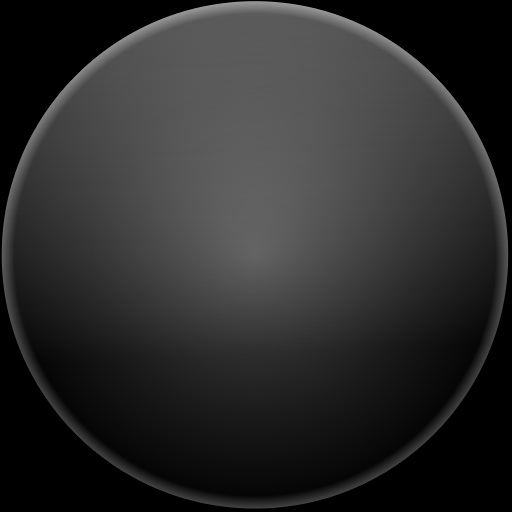
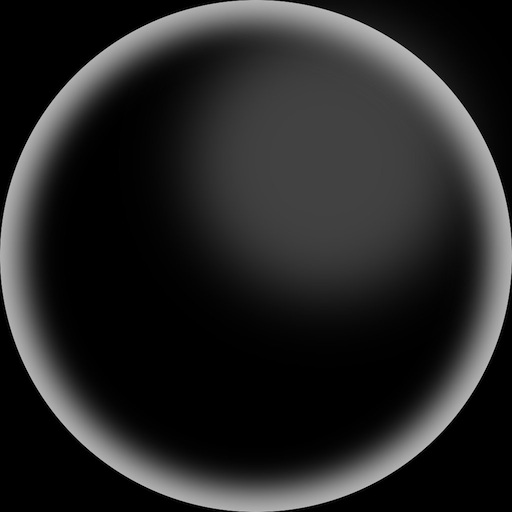
New matcap collection for default in release. It's now 24 images, ordered from regular diffuse to more shiny, stone, wax, eflective, glass and two non-realistic ones.
The menu now shows it in 3 rows. I made the previews a bit smaller, 96 pixels,
like the brushes for painting.

Thanks everyone for submitting pics! I updated the credit file too, but name
from one person is missing still, will be added next.

diff --git a/source/blender/editors/interface/interface_icons.c b/source/blender/editors/interface/interface_icons.c
@@ -533,7 +533,7 @@ static void icon_verify_datatoc(IconImage *iimg)
 		                                    iimg->datatoc_size, IB_rect, NULL, "<matcap icon>");
 		/* w and h were set on initialize */
 		if (bbuf->x != iimg->h && bbuf->y != iimg->w)
-			IMB_scalefastImBuf(bbuf, iimg->w, iimg->h);
+			IMB_scaleImBuf(bbuf, iimg->w, iimg->h);
 		
 		iimg->rect = bbuf->rect;
 		bbuf->rect = NULL;
@@ -550,7 +550,7 @@ static void init_matcap_icons(void)
 		int size = datatoc_ ##name## _jpg_size;                               \
 		DrawInfo *di;                                                         \
 		                                                                      \
-		di = def_internal_icon(NULL, icon_id, 0, 0, 128, ICON_TYPE_BUFFER);   \
+		di = def_internal_icon(NULL, icon_id, 0, 0, 96, ICON_TYPE_BUFFER);   \
 		di->data.buffer.image->datatoc_rect = rect;                           \
 		di->data.buffer.image->datatoc_size = size;                           \
 	} (void)0
@@ -571,6 +571,14 @@ static void init_matcap_icons(void)
 	INIT_MATCAP_ICON(ICON_MATCAP_14, mc14);
 	INIT_MATCAP_ICON(ICON_MATCAP_15, mc15);
 	INIT_MATCAP_ICON(ICON_MATCAP_16, mc16);
+	INIT_MATCAP_ICON(ICON_MATCAP_17, mc17);
+	INIT_MATCAP_ICON(ICON_MATCAP_18, mc18);
+	INIT_MATCAP_ICON(ICON_MATCAP_19, mc19);
+	INIT_MATCAP_ICON(ICON_MATCAP_20, mc20);
+	INIT_MATCAP_ICON(ICON_MATCAP_21, mc21);
+	INIT_MATCAP_ICON(ICON_MATCAP_22, mc22);
+	INIT_MATCAP_ICON(ICON_MATCAP_23, mc23);
+	INIT_MATCAP_ICON(ICON_MATCAP_24, mc24);
 
 #undef INIT_MATCAP_ICON
 

diff --git a/source/blender/editors/include/ED_datafiles.h b/source/blender/editors/include/ED_datafiles.h
@@ -206,6 +206,30 @@ extern char datatoc_mc15_jpg[];
 extern int datatoc_mc16_jpg_size;
 extern char datatoc_mc16_jpg[];
 
+extern int datatoc_mc17_jpg_size;
+extern char datatoc_mc17_jpg[];
+
+extern int datatoc_mc18_jpg_size;
+extern char datatoc_mc18_jpg[];
+
+extern int datatoc_mc19_jpg_size;
+extern char datatoc_mc19_jpg[];
+
+extern int datatoc_mc20_jpg_size;
+extern char datatoc_mc20_jpg[];
+
+extern int datatoc_mc21_jpg_size;
+extern char datatoc_mc21_jpg[];
+
+extern int datatoc_mc22_jpg_size;
+extern char datatoc_mc22_jpg[];
+
+extern int datatoc_mc23_jpg_size;
+extern char datatoc_mc23_jpg[];
+
+extern int datatoc_mc24_jpg_size;
+extern char datatoc_mc24_jpg[];
+
 
 
 #endif /* __ED_DATAFILES_H__ */

diff --git a/source/blender/editors/interface/interface_templates.c b/source/blender/editors/interface/interface_templates.c
@@ -1585,11 +1585,12 @@ static uiBlock *icon_view_menu(bContext *C, ARegion *ar, void *arg_litem)
 	for (a = 0; item[a].identifier; a++) {
 		int x, y;
 		
-		x = (a % 8) * UI_UNIT_X * 6;
-		y = (a / 8) * UI_UNIT_X * 6;
+		/* XXX hardcoded size to 5 x unit */
+		x = (a % 8) * UI_UNIT_X * 5;
+		y = (a / 8) * UI_UNIT_X * 5;
 		
 		icon = item[a].icon;
-		but = uiDefIconButR_prop(block, ROW, 0, icon, x, y, UI_UNIT_X * 6, UI_UNIT_Y * 6, &cb.ptr, cb.prop, -1, 0, icon, -1, -1, NULL);
+		but = uiDefIconButR_prop(block, ROW, 0, icon, x, y, UI_UNIT_X * 5, UI_UNIT_Y * 5, &cb.ptr, cb.prop, -1, 0, icon, -1, -1, NULL);
 		uiButSetFlag(but, UI_HAS_ICON | UI_ICON_PREVIEW);
 	}
 

diff --git a/source/blender/makesrna/intern/rna_space.c b/source/blender/makesrna/intern/rna_space.c
@@ -1550,6 +1550,14 @@ static void rna_def_space_view3d(BlenderRNA *brna)
 		{ICON_MATCAP_14, "14", ICON_MATCAP_14, "", ""},
 		{ICON_MATCAP_15, "15", ICON_MATCAP_15, "", ""},
 		{ICON_MATCAP_16, "16", ICON_MATCAP_16, "", ""},
+		{ICON_MATCAP_17, "17", ICON_MATCAP_17, "", ""},
+		{ICON_MATCAP_18, "18", ICON_MATCAP_18, "", ""},
+		{ICON_MATCAP_19, "19", ICON_MATCAP_19, "", ""},
+		{ICON_MATCAP_20, "20", ICON_MATCAP_20, "", ""},
+		{ICON_MATCAP_21, "21", ICON_MATCAP_21, "", ""},
+		{ICON_MATCAP_22, "22", ICON_MATCAP_22, "", ""},
+		{ICON_MATCAP_23, "23", ICON_MATCAP_23, "", ""},
+		{ICON_MATCAP_24, "24", ICON_MATCAP_24, "", ""},
 		{0, NULL, 0, NULL, NULL}
 	};
 	

diff --git a/source/blender/editors/include/UI_icons.h b/source/blender/editors/include/UI_icons.h
@@ -1007,6 +1007,14 @@ DEF_ICON(MATCAP_13)
 DEF_ICON(MATCAP_14)
 DEF_ICON(MATCAP_15)
 DEF_ICON(MATCAP_16)
+DEF_ICON(MATCAP_17)
+DEF_ICON(MATCAP_18)
+DEF_ICON(MATCAP_19)
+DEF_ICON(MATCAP_20)
+DEF_ICON(MATCAP_21)
+DEF_ICON(MATCAP_22)
+DEF_ICON(MATCAP_23)
+DEF_ICON(MATCAP_24)
 
 /* vector icons, VICO_ prefix added */	
 DEF_VICO(VIEW3D_VEC)
